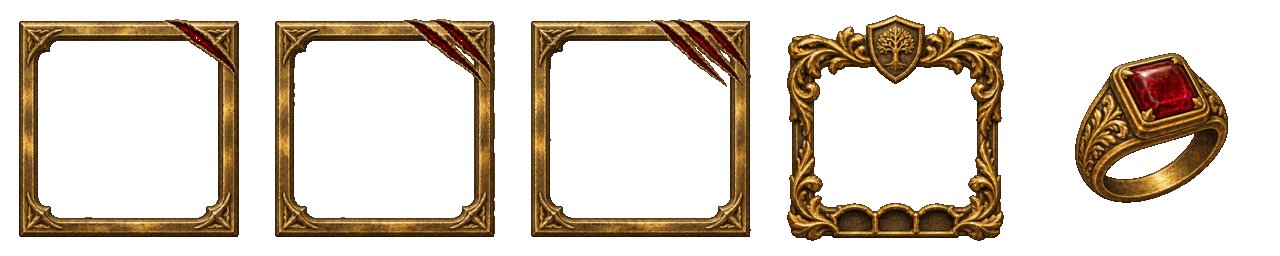
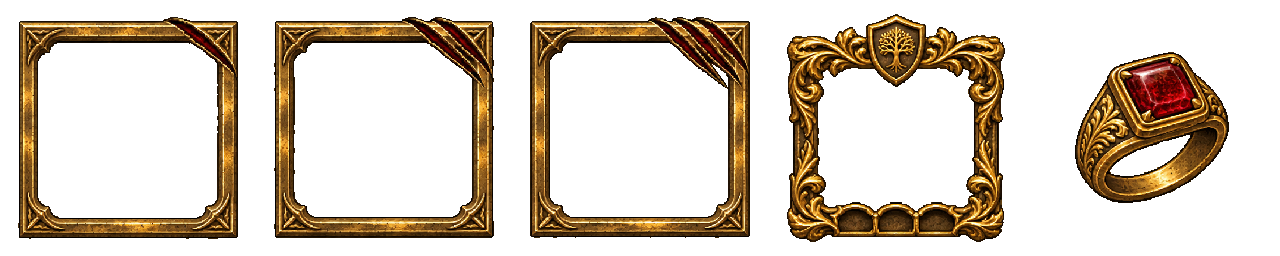
Paint portrait scars and heirloom frame sheet

diff --git a/docs/notes/expansion-2-art-prompts.md b/docs/notes/expansion-2-art-prompts.md
@@ -3,3 +3,9 @@
 ```text
 Repository hpatter9/legends-of-the-fall, branch art/expansion-2, file art-source/expansion/nemesis-icons.png. Paint ONE transparent PNG sprite atlas EXACT 1536x640 pixels, 12 columns x 5 rows of 128x128 cells. Reference attached atlas for style and layout, but repaint icons freshly with crisp pixel art, 1px dark outline, muted gothic steel, aged brass, bone, dark crimson. Bold clear silhouettes readable at 24px; no antialiasing, no blur, no text, no frames or grid lines. Every icon centred within its own cell, approximately 100x100 (80% cell) with transparent padding; last shield overlay smaller. Exact row ordering left to right: ROW 1 12 traits: iron skull; broken arrow caught in shield; scarred breastplate; boot planted on stone; gauntlet turning away glowing rune; hunting horn with red X over it; heart stitched together with black thread; crossed-out healer cross; executioner axe; dagger in shadow; hill topped with crown; lone wolf head. ROW 2 10 Council events then TWO EMPTY CELLS: tattered war banner on pike; gold chevron rising; two crossed jagged blades; dagger in cloaked back; spilled goblet beside roast bone; two locked gauntlets; two cut hands clasped with red drop; FOOTPRINTS visibly leading away from broken helm (make footprints obvious); running silhouette in smoke; cracked skull with stitched seam; EMPTY; EMPTY. ROW 3 seven News then FIVE EMPTY: cracked helm with tear of blood; sword through skull with red ribbon; shield carried on open hand; bandaged fist; two crossed swords inside ring of stones; War Trophy token blackened iron medallion stamped with HORNED skull, frayed RED RIBBON and BRASS RIM; small round shield overlay meant for another icon corner; remaining five EMPTY. ROWS 4 AND 5 ENTIRELY EMPTY TRANSPARENT. Transparency throughout background, no ground, no cast shadow outside each icon. Output exact canvas and grid placement.
 ```
+
+## Portrait and heirloom frames
+
+```text
+Repository hpatter9/legends-of-the-fall; branch art/expansion-2; output art-source/expansion/frames.png. Paint ONE 1280x256 transparent PNG, five equal 256x256 cells in one row, no text. Match the existing dark fantasy painted pixel-art UI: aged brass and gold, dark outlines, restrained highlights and dark crimson accents. Cells 1–3: matching thin square brass portrait frames, fully transparent centres, bearing exactly ONE, TWO, THREE deep diagonal claw scars respectively, dark red beneath torn brass. Cell 4: aged gold filigree square heirloom frame, transparent centre, small family crest at top, exactly three empty notches along bottom. Cell 5: one gold signet ring with red stone, centred and filling about 60% of its cell. Transparent background and padding; no lettering, no extra objects.
+```

diff --git a/docs/TASKS.md b/docs/TASKS.md
@@ -1239,3 +1239,5 @@ UI-007 final 0.190.0 validation complete: current Last Stand Auto, pause/resume,
 - Completion: 1536×640 transparent PNG; 12×5 cells, ordered 12/10/7 icons, all other cells empty; inspect source and 24px readability; commit, push, open/update Expansion art 2 PR.
 - Status: in progress. Runtime integration excluded.
 - Result: ready for review. Fresh sheet validated: exact dimensions, RGBA/binary alpha, 29 occupied / 31 empty cells, minimum 13px padding; atlas and 24px preview inspected. Source art only; no runtime checks. Handoff: [Expansion art 2](notes/expansion-2.md).
+EXPANSION-2-FRAMES — Codex; art/expansion-2; /workspace/legends-of-the-fall. Owner requests one five-cell 1280x256 transparent source sheet at art-source/expansion/frames.png, matching existing style, added to Expansion art 2 PR #464. Scope: that source image plus required prompt/task/handoff records. Completion: visual review, exact size and transparent centres/background, commit and push to existing PR. No runtime changes.
+- **EXPANSION-2-FRAMES result:** five-cell source sheet painted and visually reviewed; dimensions, RGBA, binary alpha, padding and empty portrait centres verified. Ready for review in PR #464. See [handoff](notes/expansion-2-art.md). Runtime checks not run (source art only).

diff --git a/docs/notes/expansion-2-art.md b/docs/notes/expansion-2-art.md
@@ -1,0 +1,6 @@
+
+## Portrait and heirloom frames
+
+Repainted `art-source/expansion/frames.png` as one 1280×256 RGBA sheet: three matching brass portrait frames with one, two and three crimson-backed claw scars; an aged-gold filigree heirloom frame with tree crest and three empty bottom notches; and a red-stone gold signet ring at 60% cell width. Generated against the existing frame reference, then cropped and packed with nearest-neighbour sizing and hard alpha edges.
+
+Visually reviewed all five cells. Verified dimensions, binary alpha, transparent padding and empty portrait centres (the heirloom crest extends into the top opening). Runtime tests/build not run: source art only. Handoff: existing Expansion art 2 PR #464; ready for owner review, no runtime integration or version bump.
